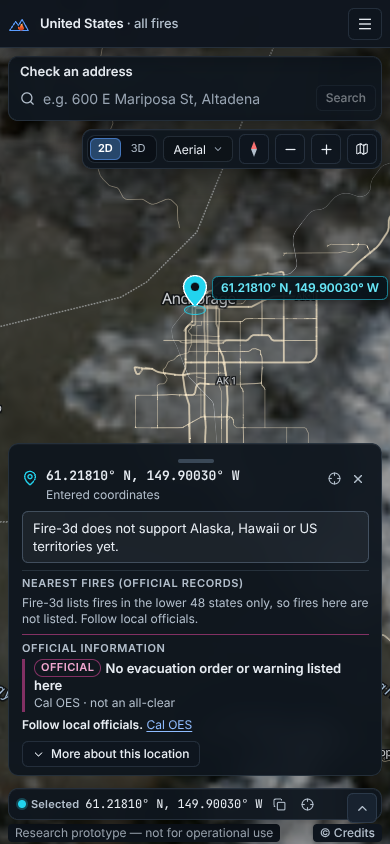
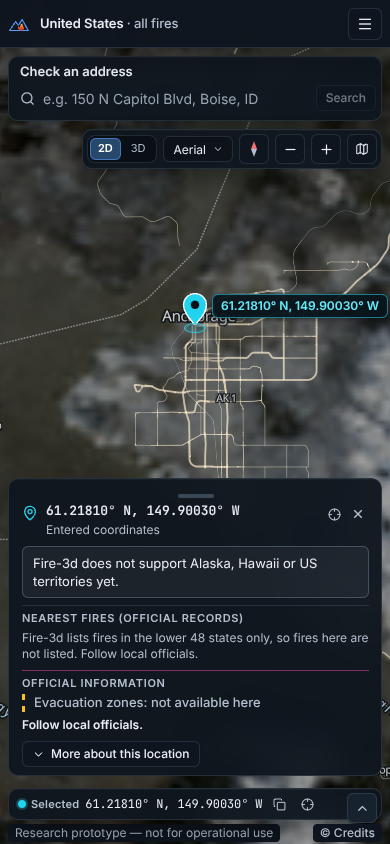
brief 3 us-web: M6 cut line (accuracy line in drawer, Forensic tab and location card; W11 list windowing; W15 phone fixes; rasters carry-over; UTM 10-19 tests), tf to us-official shims, national search examples, screenshots
Most M6 files were already captured by the orchestrator's checkpoint commits (4abf07a, 3710089, 7b7cd81); this commit completes the milestone.

Claude-Session: https://claude.ai/code/session_016JQLLLPiy3zrdDeXcY1uZS

diff --git a/web/src/location/SearchBox.tsx b/web/src/location/SearchBox.tsx
@@ -340,7 +340,7 @@ export function SearchBox() {
             maxLength={200}
             aria-describedby={statusId}
             aria-controls={lists ? listId : undefined}
-            placeholder="e.g. 600 E Mariposa St, Altadena"
+            placeholder="e.g. 150 N Capitol Blvd, Boise, ID"
             value={text}
             onFocus={() => {
               setFocused(true)
@@ -383,8 +383,8 @@ export function SearchBox() {
       <div ref={belowRef} id={statusId} className="loc-search-below" aria-live="polite">
         {p.kind === 'hint' && (
           <p className="mw-panel loc-search-hint">
-            Enter a street address with a house number (<span className="mw-mono">600 E Mariposa St, Altadena</span>), a US town or ZIP code (
-            <span className="mw-mono">Boise, ID</span>; <span className="mw-mono">83702</span>), coordinates or a fire’s name, then press Enter. Or click the map.
+            Enter a street address with a house number (<span className="mw-mono">150 N Capitol Blvd, Boise, ID</span>), a US town or ZIP code (
+            <span className="mw-mono">Springfield, IL</span>; <span className="mw-mono">83702</span>), coordinates or a fire’s name, then press Enter. Or click the map.
           </p>
         )}
         {(p.kind === 'busy' || p.kind === 'message') && !lists && (

diff --git a/web/src/ui/useListWindow.ts b/web/src/ui/useListWindow.ts
@@ -54,9 +54,10 @@ export function useListWindow(n: number, scroller: RefObject<HTMLElement | null>
     const measure = () => {
       const listTop = (el === box ? 0 : el.getBoundingClientRect().top - box.getBoundingClientRect().top + box.scrollTop) + padPx
       const rows = el.querySelectorAll<HTMLElement>(rowSelector)
-      // layout offsets, not screen boxes: a transform (a sheet sliding in) does not change the pitch
+      // layout offsets, not screen boxes (a transform such as a sheet sliding in does not change the pitch), averaged
+      // over the rendered rows (offsets are whole pixels; a 47.8 px row read as 47 would drift 1,000 px over the list)
       let pitch = 0
-      if (rows.length >= 2) pitch = rows[1].offsetTop - rows[0].offsetTop
+      if (rows.length >= 2) pitch = (rows[rows.length - 1].offsetTop - rows[0].offsetTop) / (rows.length - 1)
       else if (rows.length === 1) pitch = rows[0].offsetHeight
       // never more than the window's height: a scroller still growing to its content (a popover being placed) would
       // otherwise ask for every row

diff --git a/web/src/location/search.test.ts b/web/src/location/search.test.ts
@@ -316,6 +316,14 @@ describe('national search (brief 3, §14.10, W6)', () => {
     inc('2026-sandy-cccccc', 'Sandy', { year: 2026, county: 'Ada', state: 'ID', lat: 43.6, lon: -116.2 }),
   ]
   const plan = (t: string) => planSearch(t, NATIONAL)
+  it('the national examples in the placeholder and hints parse as what they show (address; town; ZIP)', async () => {
+    const { SEARCH_EXAMPLES } = await import('./search')
+    const [addr, town, zip] = SEARCH_EXAMPLES.replace(/^e\.g\. /, '').split('; ')
+    expect(lookupPlan(addr)).toMatchObject({ expect: 'address' })
+    expect(plan(town)).toMatchObject({ kind: 'lookup', expect: 'local' })
+    expect(looksLikeZip(zip)).toBeTruthy()
+    expect(SEARCH_EXAMPLES).not.toMatch(/Altadena/)
+  })
   it('"Town, ST" and "Town ST" go to the local (national Gazetteer) lookup as typed', () => {
     for (const t of ['Springfield, IL', 'Springfield IL', 'Boise, ID', 'Raleigh, North Carolina']) expect(plan(t)).toMatchObject({ kind: 'lookup', expect: 'local', query: t })
     expect(queryState('Springfield, IL')).toBe('IL')

diff --git a/web/src/location/search.ts b/web/src/location/search.ts
@@ -154,7 +154,7 @@ export function likelyMissingWestSign(p: { lat: number; lon: number }): boolean 
 /** CONTRACT §14.10 / §14.14 search messages. */
 export const NOT_SUPPORTED_NOTE = 'Fire-3d does not support Alaska, Hawaii or US territories yet.'
 export const OUTSIDE_LOWER48_WARNING = 'This point is outside the area Fire-3d covers (the lower 48 states).'
-export const SEARCH_EXAMPLES = 'e.g. 600 E Mariposa St, Altadena; Boise, ID; 83702'
+export const SEARCH_EXAMPLES = 'e.g. 150 N Capitol Blvd, Boise, ID; Springfield, IL; 83702'
 export const noPlaceMessage = (q: string) => `No US city, town, county or ZIP code matches “${q}”.`
 
 // ------------------------------------------------------------------------------------------------- incidents

diff --git a/web/src/location/geocodeClient.ts b/web/src/location/geocodeClient.ts
@@ -35,7 +35,7 @@ export function plainSearchError(e: unknown): string {
         const d = detailOf(e)
         if (d) return d.replace(/\s*\(HTTP \d{3}\)/g, '')
         return e.status === 400
-          ? 'This search could not be read. Enter a street address with a house number, a US town or a ZIP code (e.g. 600 E Mariposa St, Altadena; Boise, ID; 83702).'
+          ? 'This search could not be read. Enter a street address with a house number, a US town or a ZIP code (e.g. 150 N Capitol Blvd, Boise, ID; Springfield, IL; 83702).'
           : 'Town and ZIP search is not available right now. Enter a street address, or click the map.'
       }
       default:

diff --git a/docs/redesign/contract3/us-web.md b/docs/redesign/contract3/us-web.md
@@ -197,7 +197,7 @@ As §14.9.4: `clockFor`, `useClock`, `useTimeFormat`, `useTimeFormatFor`, `useZo
   records)", the place's county and state, "Fire lists: CAL FIRE and NIFC WFIGS, checked …", the zone line "Times:
   Mountain Time (MDT), local time at this place".
 
-## Cut line (M6): done (a), (c), (d), (e), (f); not done (b)
+## Cut line (M6): all six items done
 
 - (a) Accuracy line in the Analysis drawer and the Forensic Analysis tab: `ui/RegionAccuracy.tsx` (`RegionAccuracy`)
   shows the Command line, the fuel caveat and "Outside the modeled area is unknown, not low." for the open fire, from
@@ -224,8 +224,18 @@ As §14.9.4: `clockFor`, `useClock`, `useTimeFormat`, `useTimeFormatFor`, `useZo
     follow the safe area, so the camera and the list's "N fires in this view" keep what the user saw; closing the
     sheet frames again. On phones the frame button ("All states" / "Incident") first closes an open bottom sheet
     (updates, layers, analysis), so the framed map shows.
-- (b) W11 list windowing above 150 rows: NOT done (integration). The list renders every row of the filter in view
-  (1,393 rows with "Show all" on the 2026 season); keyboard Home/End and `aria-setsize`/`aria-posinset` are not added.
+- (b) W11 list windowing above 150 rows: `state/overview.ts` `LIST_WINDOW_MIN = 150`, `LIST_OVERSCAN = 10`,
+  `listWindow(n, scrollTop, viewH, rowH)` and `scrollToRow(i, rowH, scrollTop, viewH)`; `ui/useListWindow.ts`
+  (`useListWindow(n, scroller, list, { padPx, rowSelector, onWindow })`) follows the scroller's position and size and
+  the rendered row pitch (layout offsets averaged over the rendered rows; the view height never above the window's).
+  The overview list (`ui/shell/OverviewPanel.tsx` `FireList`) keeps the unrendered rows as padding on the `<ul>`;
+  every `<li>` carries `aria-posinset` / `aria-setsize`; ArrowUp/Down, Home and End move the roving focus over the
+  whole list (an unrendered row is scrolled in, then focused); a focused row scrolled out of the window by the wheel
+  hands focus to the list itself (`tabIndex=-1`), from where the arrows continue. The incident picker
+  (`ui/IncidentPicker.tsx`) uses spacer elements instead of padding (its scroller is the list, a flex item that cannot
+  shrink below its own padding), `aria-posinset` / `aria-setsize` on each option, and a new tab or query scrolls the
+  list back to the top. Checked in Chrome: 1,393 rows render 14-32 at a time; End lands on row 1,393 and Home on
+  row 1, both visible.
 
 ## Late changes (after M5)
 
@@ -245,3 +255,6 @@ As §14.9.4: `clockFor`, `useClock`, `useTimeFormat`, `useTimeFormatFor`, `useZo
 - Fire card: a member fire outside California shows "Part of the {complex_name}" with the name verbatim
   (`lib/recordText.ts` `partOfComplex`; "Complex" is added only when the name lacks it).
 - Search: a ZIP match is titled "ZIP 83702, ID" from the match's own `zip` and `state`.
+- Search examples are national: the placeholder "e.g. 150 N Capitol Blvd, Boise, ID", the hint and the invalid-input
+  message "e.g. 150 N Capitol Blvd, Boise, ID; Springfield, IL; 83702" (`location/search.ts` `SEARCH_EXAMPLES`; a test
+  checks each example parses as the kind it shows).

diff --git a/docs/redesign/progress/brief3-us-web.md b/docs/redesign/progress/brief3-us-web.md
@@ -17,9 +17,9 @@ Role: us-web (API 8712, Vite 5182). Scratch: /tmp/claude-0/-home-user-fire-3d/46
 
 - Screenshots: all 18 named in plan3-roles taken and viewed (docs/screenshots/brief3-us-web-*.png).
 
-- M6 cut line: (a) RegionAccuracy in the Analysis drawer and Forensic Analysis tab, (c) W15 phone fixes, (d) rasters carry-over (RasterSetLoader), (e) W14 reprojection zones 10-19 + fixture-east, (f) location card accuracy line. Not done: (b) W11 windowing.
-- Late: tf passed to every us-official shim call site; overview official block cap and single list-absence line; AK/HI nearest-fires line; partOfComplex; ZIP titles.
-- Gates (final): tsc 0; lint 55 (all src/scene); vitest 1,028 passed, 2 skipped, 3 failed (all in us-official's uncommitted files: extras/evacuation.test.ts, official/model.test.ts); build OK; backend 870 passed; check-time-api --role us-web 0/0; 0 non-GET in api.log/api2.log/api3.log; key scan 0.
+- M6 cut line, all six: (a) RegionAccuracy in the Analysis drawer and Forensic Analysis tab, (b) W11 windowing (overview list and incident picker, ui/useListWindow.ts), (c) W15 phone fixes, (d) rasters carry-over (RasterSetLoader), (e) W14 reprojection zones 10-19 + fixture-east, (f) location card accuracy line.
+- Late: tf passed to every us-official shim call site; overview official block cap and single list-absence line; AK/HI nearest-fires line; partOfComplex; ZIP titles; national search examples (orchestrator relay); Horse Gulch (MT) Public/Command screenshots.
+- Gates (final): tsc 0; lint 55 (all src/scene); vitest 65 files, 1,055 passed, 2 skipped; build OK; backend 870 passed; check-time-api --role us-web 0/0; 0 non-GET in api.log..api4.log; key scan 0.
 
 ## Next
 - Report JSON, then hand back.
@@ -31,5 +31,5 @@ Role: us-web (API 8712, Vite 5182). Scratch: /tmp/claude-0/-home-user-fire-3d/46
 - SSR tests: ui/ssr.testutil.ts sets zustand initial state (server snapshot).
 
 ## Open problems
-- us-official's uncommitted official/model.ts (at 02:10 UTC) shows "No evacuation order or warning listed here · Cal OES" for points in Georgia and Alaska (search-atlanta and location-anchorage screenshots); §14.14 wants "Evacuation zones: not available in this state". Their file: listed for the integrator.
-- W11 windowing not done.
+- (resolved) Georgia/Alaska points showed "No evacuation order or warning listed here · Cal OES" while my API ran pre-us-official-M2 backend code; after restarting the API the card says "Evacuation zones: not available in this state" (Georgia) / "not available here" (Alaska).
+- us-official panels still print fire-weather and data-status times in PDT for a Montana fire (Horse Gulch shots): their files.
